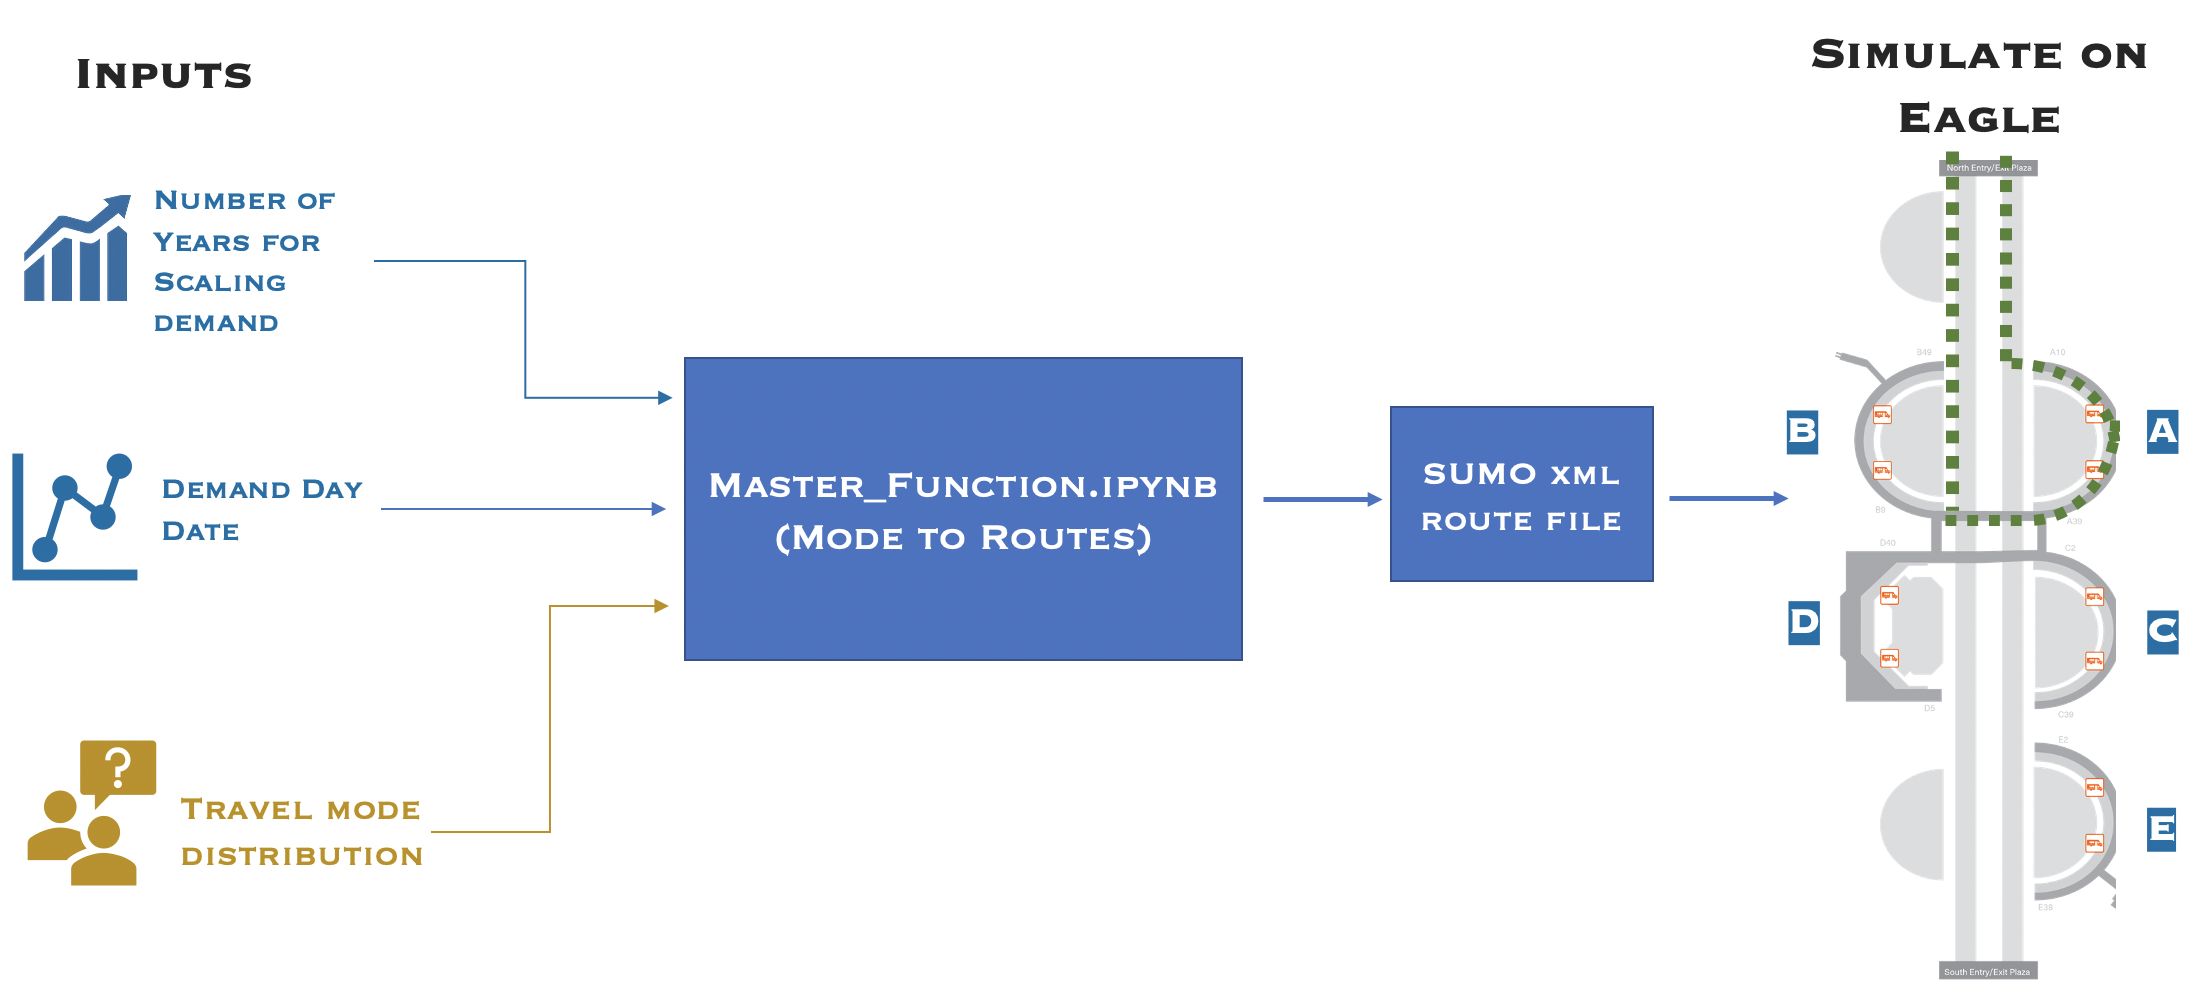
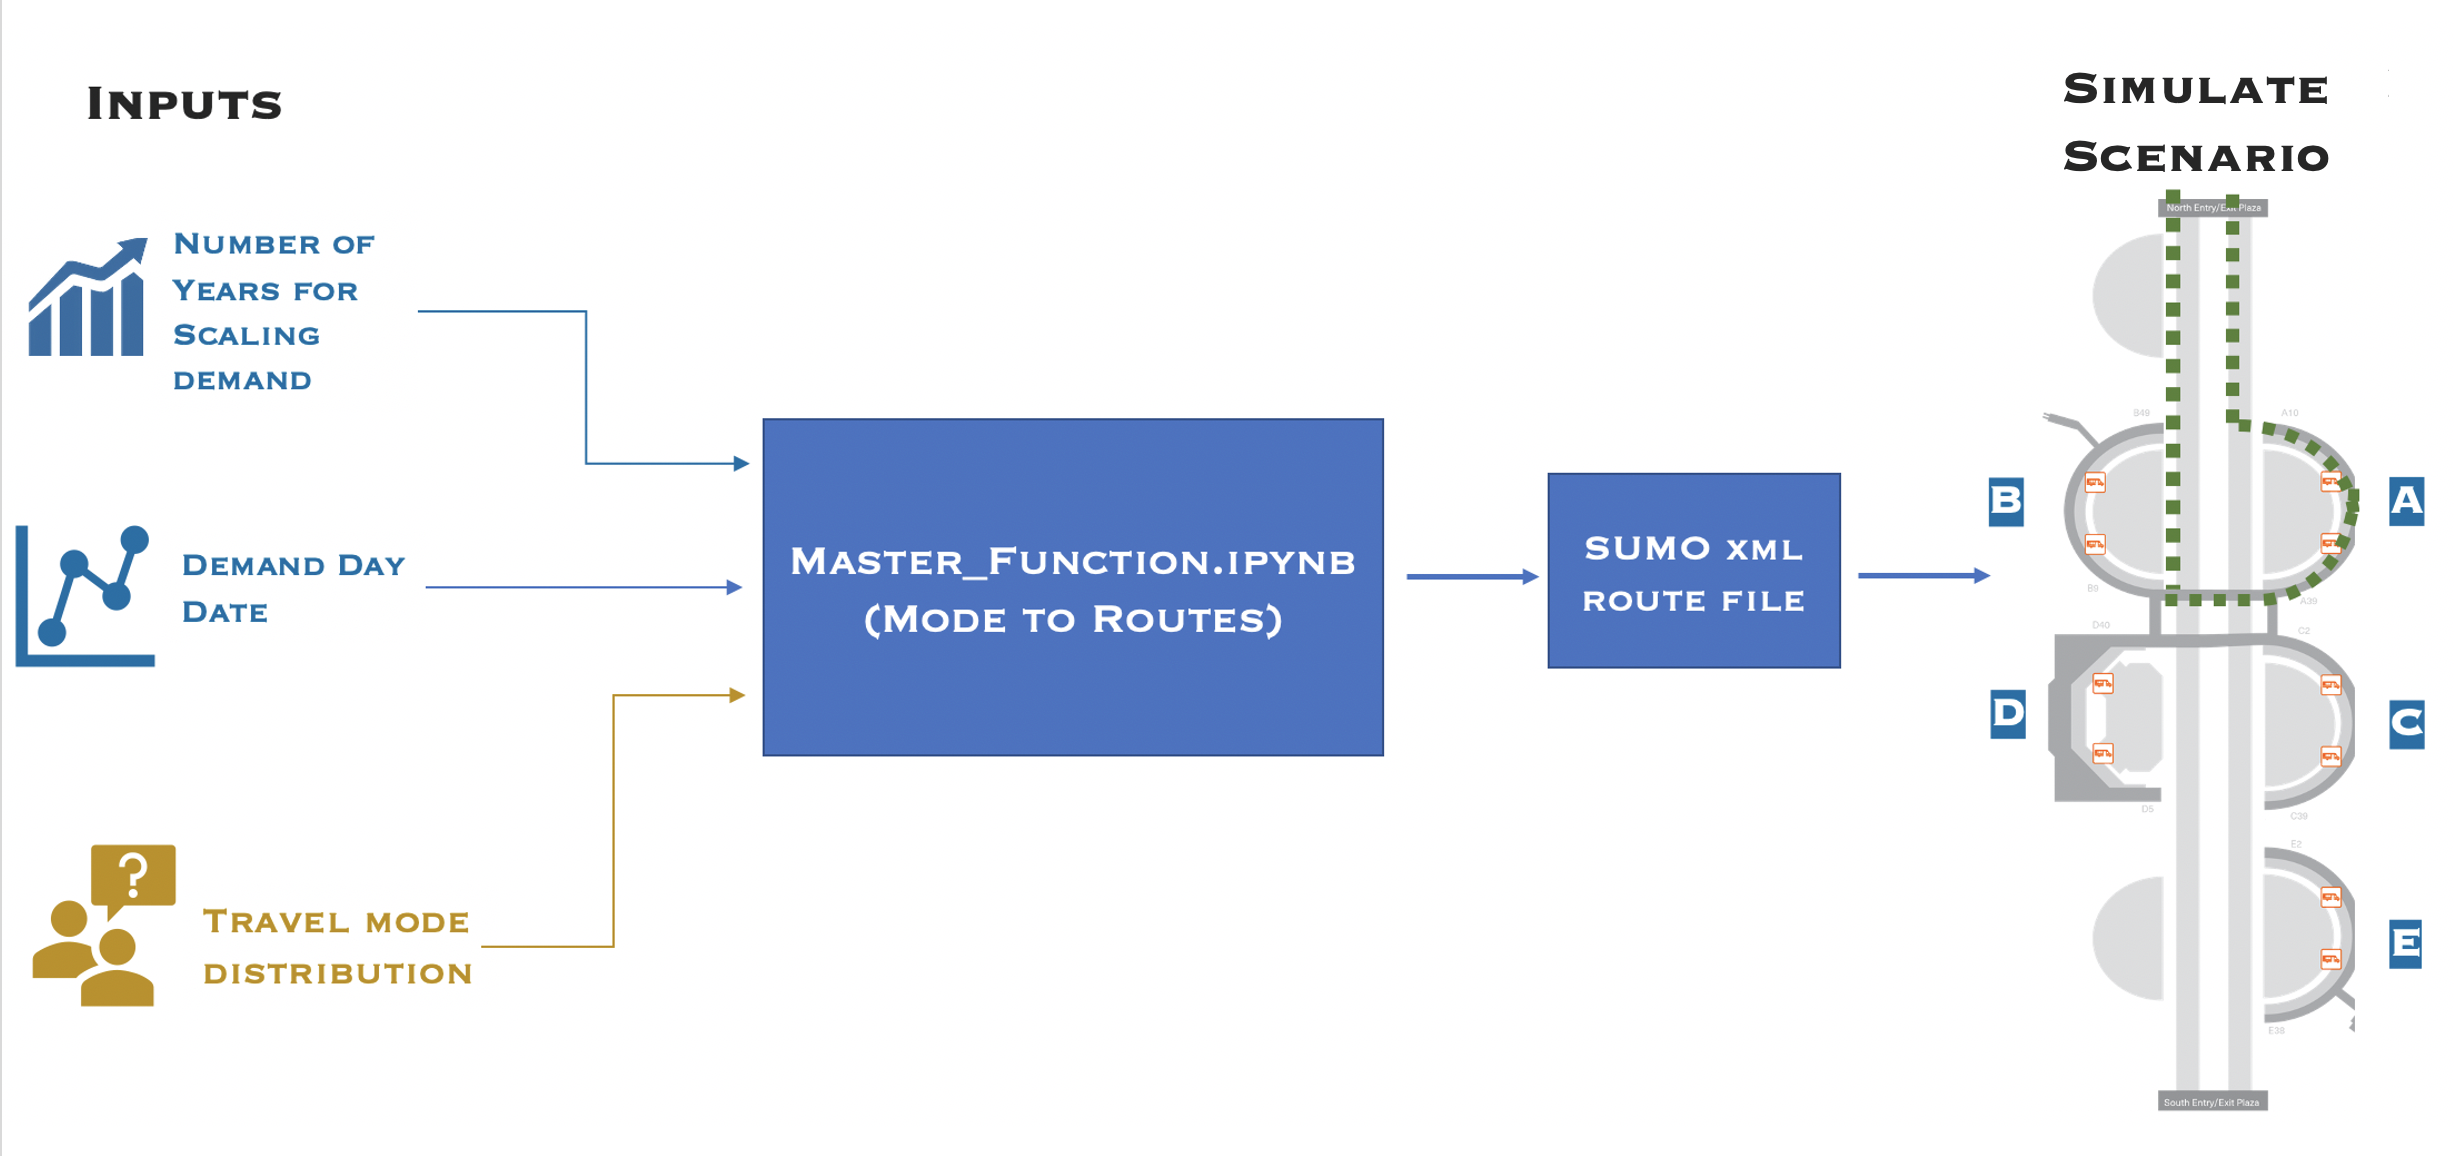
Changes to README

diff --git a/Congestion_Policies/README.md b/Congestion_Policies/README.md
@@ -1,9 +1,9 @@
 # This folder has code for creating simulation for different scenarios and congestion policies
 > Click on the links below to skip to your respective step.
-- [**STEP 0: Clone Repo & Setup Env**](https://github.com/NREL/ATHENA-sumo/blob/master/Congestion_Policies/README.md#step-0-clone-repo-and-setup-enviroment)
-- [**STEP 1: Ensure Dependencies**](https://github.com/NREL/ATHENA-sumo/blob/master/Congestion_Policies/README.md#step-1-ensure-you-have-all-dependencies)
-- [**STEP 2: Run Master Function**](https://github.com/NREL/ATHENA-sumo/blob/master/Congestion_Policies/README.md#step-2-run-master-function)
-- [**STEP 3: Move Demand to Eagle**](https://github.com/NREL/ATHENA-sumo/blob/master/Congestion_Policies/README.md#step-3-move-demand-to-eagle)
+- [**STEP 0: Clone Repo & Setup Env**](https://github.com/NREL/ATHENA-sumo/blob/JU_branch/Congestion_Policies/README.md#step-0-clone-repo-and-setup-enviroment)
+- [**STEP 1: Ensure Dependencies**](https://github.com/NREL/ATHENA-sumo/blob/JU_branch/Congestion_Policies/README.md#step-1-ensure-you-have-all-dependencies)
+- [**STEP 2: Run Master Function**](https://github.com/NREL/ATHENA-sumo/blob/JU_branch/Congestion_Policies/README.md#step-2-run-master-function)
+- [**STEP 3: Run policy scenario on personal computer**](https://github.com/NREL/ATHENA-sumo/blob/JU_branch/Congestion_Policies/README.md#step-3-run-policy-scenario-on-personal-computer)
 - [**STEP 4: Run Simulation**](https://github.com/NREL/ATHENA-sumo/tree/master/Congestion_Policies#step-4-run-sumo-simulation)
 - [**STEP 5: Visualize Outputs**](https://github.com/NREL/ATHENA-sumo/blob/master/Congestion_Policies/README.md#step-5-visualizations)
 ## STEP 0: Clone REPO and Setup Enviroment
@@ -42,16 +42,18 @@ scp eagle.hpc.nrel.gov:/projects/athena/sumo_data/predicted_demand/athena_sumo_v
 This is the .ipynb that generates the Trips demand file. Parameters are explained in notebook.
 >  [**Master_Function.ipynb**](Master_Function.ipynb)
 
-## Step 3: Move Demand to Eagle
+## Step 3: Run policy scenario on personal computer
+> Use [these instructions](https://github.com/NREL/ATHENA-sumo/tree/JU_branch/Process_SUMO_output)
+
+## STEP 4: Run SUMO simulation on HPC
+- Move Demand to HPC
 Once you have generated your XML trips file, you will need to move it to Eagle and run it on HPC. To do this, you can run the code below. Be sure to **REPLACE {NameOfYourOutputDemand.xml}** with the file name you just generated. [**Master_Function.ipynb**](Master_Function.ipynb) will print the file name as the last line in the notebook.
 ```linux
 scp ../Example_Files/TempInputTrips/{NameOfYourOutputDemand.xml} eagle.hpc.nrel.gov:/scratch/{HPC user name}/path/to/Trips/.
 
 ```
 
-## STEP 4: Run SUMO simulation
-
-- Interactive Node example
+- Run on Interactive Node example
 ```linux
 ssh eagle.hpc.nrel.gov
 cd /scratch/{HPC_user_name}/path/to/run/Sumo
@@ -60,7 +62,7 @@ export SUMO_HOME="/projects/athena/sumo-installation/dist/sumo-git"
 $SUMO_HOME/bin/sumo -n Network/DFW2.net.xml --additional-files Additional_Files/additional_2019-12-11.xml -r Trips/2018-1-2.High.trips.xml --summary summary.xml --eager-insert t
 ```
 
-- As a batch file 
+- Run as a batch file 
 ```linux
 ssh eagle.hpc.nrel.gov
 cd /scratch/{HPC_user_name}/path/to/run/Sumo
@@ -90,4 +92,4 @@ python $SUMO_HOME/tools/xml/xml2csv.py Output/summary.xml
 Additional outputs include: [edge-level traffic measures](https://sumo.dlr.de/docs/Simulation/Output/Lane-_or_Edge-based_Traffic_Measures.html) and [edge-level emission measures](https://sumo.dlr.de/docs/Simulation/Output/Lane-_or_Edge-based_Emissions_Measures.html).
 
 ## STEP 5: Visualizations 
- Visualize one or multiple scenarios from different sumo simulations using the sumo output files (edge-based traffic, edge-based emissions, summary files & trip-based outputs). Single scenario visuals include mode choice graphs, emissions aggregated metrics, and traffic flow scatter plots. While multiple scenarios are compared on a timeseries basis for a given column from edge-based outputs. Refer to the notebook plotSumoCongestion.ipynb to generate these plots.
+ Visualize one or multiple scenarios from different sumo simulations using the sumo output files (edge-based traffic, edge-based emissions, summary files & trip-based outputs). Single scenario visuals include mode choice graphs, emissions aggregated metrics, and traffic flow scatter plots. While multiple scenarios are compared on a timeseries basis for a given column from edge-based outputs. Refer to the notebook [plotSumoCongestion.ipynb](https://github.com/NREL/ATHENA-sumo/blob/JU_branch/Congestion_Policies/plotSumoCongestion.ipynb) to generate these plots.

diff --git a/README.md b/README.md
@@ -10,7 +10,7 @@ Yanbo Ge: <Yanbo.Ge@nrel.gov>
 
 ## THIS IS A CONFIG/ANALYSIS REPO
 ### Description of REPO
-<p>This repo is a container for all the code related to modeling DFW airport curbside (CTA modeling) using SUMO simulator and the pipeline into the infrustructure optimization model. It demonstrates how to install, run and derive useful data from SUMO simulations. We will describe the basic files needed to run a simulation and how those files are generated.The repository also has code for generating simulations representing different congestion policies and how to run those simulation on NREL's Eagle supercomputer. The examples provided are a representation of the DFW airport for curbside dropoff and and pickup.</p>
+<p>This repo is contains all the code related to modeling the Dallas-Fort Worth International Airport (DFW) curbside (CTA modeling) using SUMO simulator. It demonstrates how to install, run and derive useful data from SUMO simulations. We will describe the basic files needed to run a simulation and how those files are generated.The repository also has code for generating simulations representing different traffic managment policies for DFW and how to run those simulation on personal computer or on NREL's Eagle supercomputer. The examples provided are a representation of the DFW airport for curbside dropoff and and pickup.</p>
 
 ### The following are contained in this repository
 
@@ -61,7 +61,7 @@ File System for ATHENA SUMO
 ### 2. Select day and generate Demand
 > use  this [README.md](https://github.com/NREL/ATHENA-siem-sumo/tree/master/Generate_SUMO_demand) for
 instructions
-### 3. Run SUMO simulation
+### 3. Run SUMO simulation - this steps SUMO has already been installed as shown above
 > use this [README.md](https://github.com/NREL/ATHENA-siem-sumo/tree/master/Process_SUMO_output)
 ### 4. Process Outputs
 > use  this [README.md](https://github.com/NREL/ATHENA-siem-sumo/tree/master/Process_SUMO_output) for  
@@ -70,10 +70,11 @@ instructions
 ## HOW TO - GENERATE A CONGESTION POLICY SIMULATION
 ![Master_function!](Master_Func_Workflow.png "How to generate congestion policy scenarion")
 
-### 1. Generate congestion policy sumo xml route file
+### 1. Generate a congestion policy by running the [Master_Function.ipynb](https://github.com/NREL/ATHENA-sumo/blob/master/Congestion_Policies/Master_Function.ipynb) notebook. This results in a SUMO route file that encodes the congestion policy. 
 > use this [README.md](https://github.com/NREL/ATHENA-sumo/tree/master/Congestion_Policies)  for 
 instructions
 
-### 2. Run simulation on Eagle. We suggest generating multiple route files with step 1 to run many simulations in parallel.
-> use  this [README.md](https://github.com/NREL/ATHENA-sumo/tree/master/Congestion_Policies/Simulate_on_Eagle) for instructions
+### 2. Simulate the congestion policy scenario to evaluate the policy:
+- This can be done by running SUMO on personal computer using [these instruction](https://github.com/NREL/ATHENA-sumo/tree/master/Process_SUMO_output).
+- Or by generating many route files with step 1 to run many simulations in parallel on NREL's HPC system using [these instructions](https://github.com/NREL/ATHENA-sumo/tree/master/Congestion_Policies/Simulate_on_Eagle).
 

diff --git a/CONTRIBUTING.md b/CONTRIBUTING.md
@@ -1,9 +1,6 @@
 # Contributing
 
-When contributing to this repository, please first discuss the change you wish to make via issue,
-email, or any other method with the owners of this repository before making a change. If you wish to use the code base
-and not collaborate, please clone and create new branchto work off of. Otherwise, follow the instuctions for forking the 
-repo if you would like to contribute.
+When desiring to contribute to this repository, please first discuss your contribution via issue or email with the owners of this repository. You can then follow the instuctions for forking the repo to include your contribution. Otherwise, if you wish to use the code base and not collaborate, please clone and create new branch.
 
 Joe: <joseph.severino@nrel.gov>
 Juliette: <Juliette.Ugirumurera@nrel.gov>
@@ -12,15 +9,15 @@ Juliette: <Juliette.Ugirumurera@nrel.gov>
 ## Forking repo
 1. Use the instruction in following link to fork this repo [Instructions](https://docs.github.com/en/free-pro-team@latest/github/getting-started-with-github/fork-a-repo)
 2. Make changes locally to code base
-3. To contribute: make a pull request to the repo. If there are any merge conflicts the pull request will be rejected so please resolve any conflicts on your end before requesting us to pull changes.
+3. To contribute: make a pull request to the repo. If there are any merge conflicts, the pull request will be rejected so please resolve any conflicts on your end before requesting us to pull changes.
 
 
 ## Create a new-branch
-Use a separate branch for each feature or issue you work on. After creating a branch, check it out locally so that any changes you make will be on that branch.
+After creating a branch, check it out locally so that any changes you make will be on that branch.
 ```bash
 git checkout -b BRANCH_NAME
 ```
-> This checks out a branch called BRANCH_NAME based on master, and the -b flag tells Git to create the branch if it doesn’t already exist. Also, use your name and any other descriptor for branch naming convention.
+> This checks out a branch called BRANCH_NAME based on master, and the -b flag tells Git to create the branch if it doesn’t already exists. Use your name and any other descriptor for branch naming convention.
 
 Once you have made changes locally and would like to push to your branch. Do the following:
 

diff --git a/Process_SUMO_output/README.md b/Process_SUMO_output/README.md
@@ -2,20 +2,20 @@
 # RUN SUMO AND GENERATE OUTPUTS
 
 
-### Be sure to have all files to run a simulation and make sure $SUMO_HOME is in you path
+### Be sure to have all files to run a simulation and make sure SUMO is installed and $SUMO_HOME is in you path
 1. Sample input files can be found the [SUMO_input_files](https://github.com/NREL/ATHENA-siem-sumo/tree/master/Example_Files/SUMO_Input_Files)
 
 
 ## Running SUMO without gui (RUN this to process output files!):
 
-2. Running the simulation without a GUI
+2. Running the simulation without a GUI is shown in the example below using the [sample files](https://github.com/NREL/ATHENA-sumo/tree/master/Example_Files) provided.
 ```bash
-$SUMO_HOME/bin/sumo -n DFW_valid_2.net.xml --additional-files additional_2018-06-11.xml -r trip_2017-12-31.xml  --device.emissions.probability 1 --tripinfo-output trip_output_low.xml --stop-output stop_output_low.xml 
+$SUMO_HOME/bin/sumo -n DFW_valid_2.net.xml  --additional-files 2020-06-26.additional.xml -r <ROUTE-FILE>  --device.emissions.probability 1 --tripinfo-output <TRIP-OUTPUT-FILE> --stop-output <STOP-OUTPUT-FILE>
 ```
-### Then convert XML -> CSV
+### Then convert the output XML files to CSV files
 3. Convert Outputs to CSV
 ```bash
-  python $SUMO_HOME/tools/xml/xml2csv.py <FILE.xml>
+  python $SUMO_HOME/tools/xml/xml2csv.py <OUTPUT-XML-FILE>
   
 ```
 
